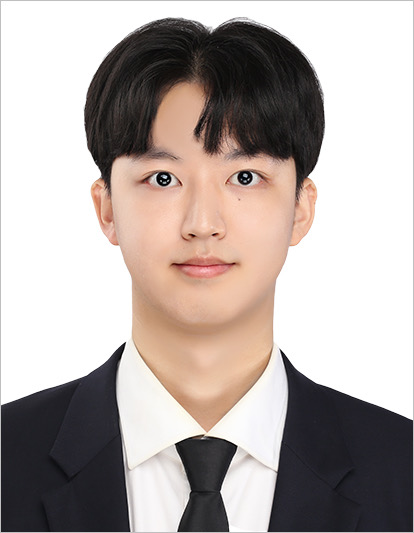
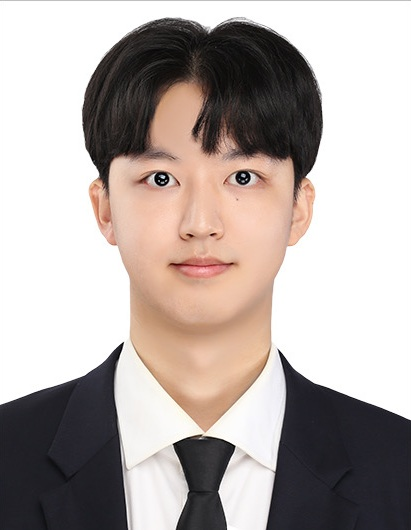
about 수정

diff --git a/css/index.css b/css/index.css
@@ -15,7 +15,6 @@
 
   /* Section backgrounds */
   --bg-home: #f7faff;
-  /* --bg-about은 Full-bleed 스플릿 레이아웃이므로 별도 사용 안함 */
   --bg-skills: #f2fff7;
   --bg-projects: #f6f6ff;
   --bg-end: #f8fafc;
@@ -127,16 +126,18 @@ body {
 }
 .menu {
   display: flex;
-  gap: 1rem;
+  gap: 1.5rem;
   list-style: none;
   margin: 0;
   padding: 0;
 }
 .menu a {
   display: inline-block;
-  padding: 0.5rem 0.75rem;
+  padding: 0.5rem 0.8rem;
   border-radius: 0.6rem;
   color: var(--muted);
+  font-size: 1.05rem;
+  font-weight: 500;
   text-decoration: none;
   transition: color 0.2s ease;
   outline: none;
@@ -206,7 +207,7 @@ body {
   background: var(--bg-end);
 }
 
-/* 아래쪽 구분선 (about의 경우 전체 스플릿이므로 제외) */
+/* 아래쪽 구분선 */
 .skills,
 .projects,
 .end {
@@ -317,7 +318,7 @@ body {
 
 /* ===== 새로워진 About Me (Full-bleed 스플릿 레이아웃) ===== */
 #about.section {
-  align-items: stretch; /* 자식 요소가 위아래로 꽉 차게 */
+  align-items: stretch;
   padding: 0;
   background: transparent;
 }
@@ -328,35 +329,35 @@ body {
   flex: 1;
 }
 
-/* 좌측 블랙 섹션 - 넓이 축소 및 텍스트 상단 배치 */
+/* 좌측 블랙 섹션 */
 .about-left {
-  flex: 0 0 28%; /* 너비 28%로 축소 (기존 35%) */
-  min-width: 280px; /* 너무 좁아지는 것 방지 */
+  flex: 0 0 20%;
+  min-width: 260px;
   background-color: #0b1120;
   color: #ffffff;
   display: flex;
   flex-direction: column;
   align-items: center;
-  justify-content: flex-start; /* 중앙 정렬에서 위쪽 정렬로 변경 */
-  padding: 140px 30px 60px; /* 상단 여백을 넓게 주어 보기 좋게 배치 */
+  justify-content: flex-start;
+  padding: 120px 20px 60px;
 }
 
 .about-title {
   font-size: clamp(32px, 4vw, 44px);
   font-weight: 800;
-  margin: 0 0 40px 0;
+  margin: 0 0 24px 0;
   letter-spacing: 1px;
 }
 
-/* 프로필 이미지 (아치형) */
+/* 프로필 이미지 */
 .profile {
-  width: 210px;
+  width: 220px;
   height: auto;
   aspect-ratio: 3 / 4;
   object-fit: cover;
   border-radius: 150px 150px 0 0;
-  border: 3px solid #ffffff;
-  background: #f1f5f9;
+  border: none;
+  background: transparent;
   flex-shrink: 0;
 }
 
@@ -365,43 +366,45 @@ body {
   flex: 1;
   background-color: #ffffff;
   display: flex;
-  align-items: center;
+  align-items: flex-start;
   justify-content: center;
-  padding: 60px 5%;
+  padding: 120px 4% 60px;
 }
 
 .about-right-inner {
   width: 100%;
-  max-width: 600px;
+  max-width: 1000px;
 }
 
-/* 우측 정보 리스트: 2열 그리드 */
+/* 우측 정보 리스트: 3열 2행 그리드 */
 .info-list {
   list-style: none;
   padding: 0;
-  margin: 0;
+  margin: 0 0 40px 0;
   display: grid;
-  grid-template-columns: repeat(2, 1fr);
-  gap: 32px 24px;
+  grid-template-columns: repeat(3, 1fr);
+  gap: 32px 20px;
   width: 100%;
 }
 .info-list li {
   display: flex;
-  align-items: center;
-  gap: 16px;
+  align-items: center; /* 아이콘과 텍스트 수직 중앙 정렬 */
+  gap: 14px;
 }
+
+/* 아이콘 배경 박스 제거 및 고정폭 부여로 정렬 통일 */
 .info-list i {
   display: flex;
   align-items: center;
   justify-content: center;
-  width: 44px;
-  height: 44px;
-  background: var(--primary-weak);
-  color: var(--primary);
-  border-radius: 12px;
-  font-size: 1.2rem;
+  width: 28px; /* 배경 상자가 사라졌으므로, 텍스트 줄맞춤을 위해 공간 고정 */
+  height: 28px;
+  background: transparent;
+  color: var(--primary); /* 청록색 포인트 유지 */
+  font-size: 1.4rem; /* 박스가 없으므로 아이콘 자체 크기를 살짝 더 키움 */
   flex-shrink: 0;
 }
+
 .info-list div {
   display: flex;
   flex-direction: column;
@@ -419,12 +422,52 @@ body {
   font-weight: 600;
   text-decoration: none;
   outline: none;
+  white-space: nowrap;
 }
 .info-list a {
   transition: color 0.2s;
 }
 .info-list a:hover {
   color: var(--primary);
+}
+
+/* Interview 영역 (텍스트 나열 형태) */
+.interview-section {
+  margin-top: 48px;
+  padding-top: 40px;
+  border-top: 1px solid var(--border);
+}
+.interview-section h3 {
+  font-size: 1.4rem;
+  font-weight: 800;
+  color: var(--text);
+  margin: 0 0 28px 0;
+  letter-spacing: 0.5px;
+}
+.interview-list {
+  display: flex;
+  flex-direction: column;
+  gap: 32px;
+}
+.interview-item .q {
+  font-size: 1.15rem;
+  font-weight: 700;
+  color: var(--text);
+  margin: 0 0 10px 0;
+  line-height: 1.4;
+  word-break: keep-all;
+}
+.interview-item .q-mark {
+  color: var(--primary);
+  margin-right: 6px;
+  font-weight: 800;
+}
+.interview-item .a {
+  margin: 0;
+  color: #3a4250;
+  line-height: 1.7;
+  font-size: 1.05rem;
+  word-break: keep-all;
 }
 
 /* Skills */
@@ -581,7 +624,6 @@ body {
   gap: 10px;
 }
 
-/* 프로젝트 버튼 애니메이션 최적화 */
 .btn {
   display: inline-block;
   padding: 0.5rem 0.8rem;
@@ -677,21 +719,32 @@ body {
   }
 }
 @media (max-width: 720px) {
-  /* About 모바일 대응 */
   .about-content {
     flex-direction: column;
   }
   .about-left {
     flex: auto;
     width: 100%;
-    padding: 100px 20px 40px; /* 모바일에서도 상단 여백 확보 */
+    padding: 100px 20px 40px;
   }
+  .about-title {
+    margin: 0 0 24px 0;
+  }
+  .profile {
+    width: 160px;
+  }
+
   .about-right {
     width: 100%;
     padding: 40px 20px 60px;
   }
   .info-list {
-    grid-template-columns: 1fr; /* 모바일에서는 1열 */
+    grid-template-columns: 1fr;
+  }
+  .info-list span,
+  .info-list a {
+    white-space: normal;
+    word-break: keep-all;
   }
 
   .grid {

diff --git a/index.html b/index.html
@@ -100,10 +100,10 @@
         </a>
       </section>
 
-      <!-- About Me (섹션 전체를 스플릿 레이아웃으로 변경) -->
+      <!-- About Me -->
       <section id="about" class="section about" aria-label="소개">
         <div class="about-content">
-          <!-- 좌측: 화면 전체 높이의 어두운 배경 -->
+          <!-- 좌측: 어두운 배경 -->
           <div class="about-left">
             <h2 class="about-title">About Me</h2>
             <img
@@ -115,9 +115,10 @@
             />
           </div>
 
-          <!-- 우측: 화면 전체 높이의 밝은 배경 -->
+          <!-- 우측: 밝은 배경 -->
           <div class="about-right">
             <div class="about-right-inner">
+              <!-- 정보 리스트 -->
               <ul class="info-list">
                 <li>
                   <i class="fa-solid fa-user"></i>
@@ -127,17 +128,10 @@
                   </div>
                 </li>
                 <li>
-                  <i class="fa-solid fa-calendar-days"></i>
+                  <i class="fa-solid fa-calendar"></i>
                   <div>
                     <strong>생년월일</strong>
                     <span>2001.05.02</span>
-                  </div>
-                </li>
-                <li>
-                  <i class="fa-solid fa-graduation-cap"></i>
-                  <div>
-                    <strong>학력</strong>
-                    <span>영진전문대학교 컴퓨터정보계열 (학사)</span>
                   </div>
                 </li>
                 <li>
@@ -163,7 +157,56 @@
                     >
                   </div>
                 </li>
+                <li>
+                  <i class="fa-solid fa-pen"></i>
+                  <div>
+                    <strong>학력</strong>
+                    <span>영진전문대학교 컴퓨터정보계열 (학사)</span>
+                  </div>
+                </li>
               </ul>
+
+              <!-- Interview 영역 -->
+              <div class="interview-section">
+                <h3>Interview</h3>
+                <div class="interview-list">
+                  <div class="interview-item">
+                    <h4 class="q">
+                      <span class="q-mark">Q.</span> 프론트엔드 개발자를 선택한
+                      이유는?
+                    </h4>
+                    <p class="a">
+                      눈에 보이는 성취감과 사용자가 제가 만든 결과물을 직접
+                      경험하며 편리함을 느끼는 데서 오는 만족감 때문에
+                      프론트엔드 개발을 선택했습니다.
+                    </p>
+                  </div>
+                  <div class="interview-item">
+                    <h4 class="q">
+                      <span class="q-mark">Q.</span> 개발 시 가장 중요하게
+                      여기는 가치는?
+                    </h4>
+                    <p class="a">
+                      '접근성', '성능', 그리고 동료를 배려하는
+                      '유지보수성'입니다. 모두가 차별 없이 편리하게 사용할 수
+                      있는 서비스를 만들고, 팀원이 오랜 기간 안정적으로 이어받아
+                      쓸 수 있는 클린 코드를 지향합니다.
+                    </p>
+                  </div>
+                  <div class="interview-item">
+                    <h4 class="q">
+                      <span class="q-mark">Q.</span> 선호하는 협업 방식은
+                      무엇인가요?
+                    </h4>
+                    <p class="a">
+                      명확한 이슈 트래킹과 적극적인 PR 리뷰 문화를 좋아합니다.
+                      개발 파트뿐만 아니라 기획, 디자인 파트와도 긴밀하고 열린
+                      커뮤니케이션을 통해 단순한 구현을 넘어 프로덕트의 가치를
+                      함께 높이는 것을 선호합니다.
+                    </p>
+                  </div>
+                </div>
+              </div>
             </div>
           </div>
         </div>
